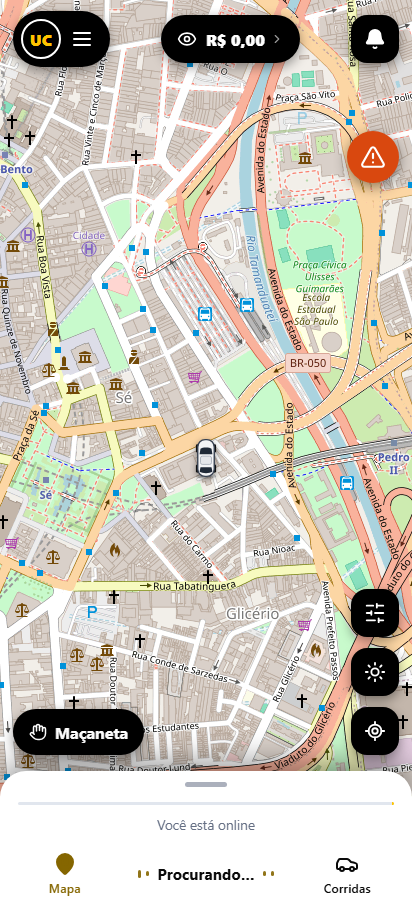
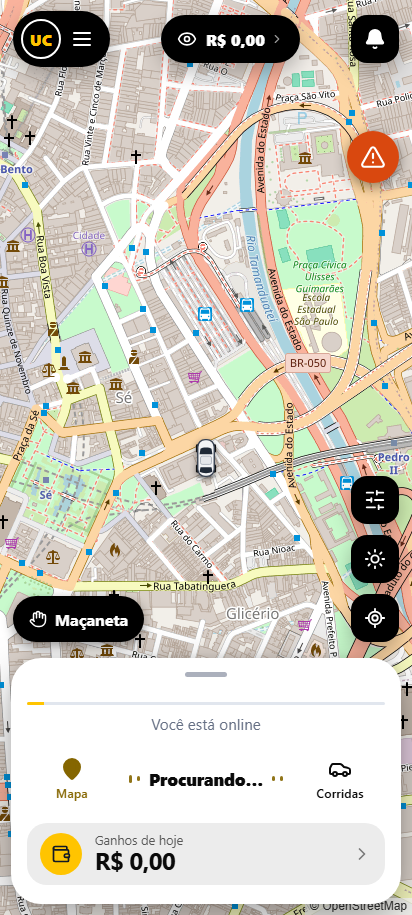
Design v2 da tela inicial (passageiro e motorista) e zona X para fechar a bolha flutuante

Changed region(s): [[0.0, 0.5202, 1.0, 1.0]]

diff --git a/painel/src/apps/web/passageiro/passageiro-m.css b/painel/src/apps/web/passageiro/passageiro-m.css
@@ -327,3 +327,28 @@ html[data-tema="escuro"] .conta-icone.azul, html[data-tema="escuro"] .conta-icon
 .topo-marca.arredondado .topo-titulo { text-align: center; align-items: center; }
 /* subtelas sem cabeçalho (Desafios): título forte */
 .cartao { box-shadow: 0 1px 2px rgba(16,24,40,.05); }
+
+/* ================= Design v2 da tela inicial do passageiro: mapa cheio + cartões flutuantes ================= */
+.inicio .inicio-topo, .inicio.estilo-neutro .inicio-topo, .inicio.estilo-marcante .inicio-topo { position: absolute; z-index: 20; top: 0; left: 0; right: 0; padding: calc(.7rem + env(safe-area-inset-top)) .8rem 0; background: none; flex-direction: row; align-items: center; gap: .55rem; pointer-events: none; color: #111; }
+.inicio .inicio-topo > * { pointer-events: auto; }
+.inicio .inicio-marca { padding: .3rem .8rem .3rem .4rem; background: #fff; border-radius: 999px; box-shadow: 0 6px 20px rgba(0,0,0,.16); min-height: 44px; margin: 0; }
+.inicio .inicio-marca img { height: 30px; }
+.inicio .inicio-ola { flex: 1; min-width: 0; display: flex; align-items: center; gap: .6rem; padding: .3rem .9rem .3rem .3rem; background: #fff; border-radius: 999px; box-shadow: 0 6px 20px rgba(0,0,0,.16); color: #111; min-height: 44px; }
+.inicio .inicio-ola small { font-size: .72rem; opacity: .65; line-height: 1; } .inicio .inicio-ola strong { font-size: 1.02rem; line-height: 1.15; overflow: hidden; text-overflow: ellipsis; white-space: nowrap; }
+.inicio .icone-botao.presente { width: 44px; height: 44px; border-radius: 50%; background: #fff; color: var(--cor-forte, #111); box-shadow: 0 6px 20px rgba(0,0,0,.16); display: grid; place-items: center; border: 0; }
+.inicio .inicio-fundo { position: absolute; z-index: 20; left: .75rem; right: .75rem; bottom: calc(92px + env(safe-area-inset-bottom)); max-width: 540px; margin: 0 auto; background: var(--cartao, #fff); border-radius: 30px; padding: 1.05rem; box-shadow: 0 -4px 14px rgba(0,0,0,.06), 0 16px 44px rgba(0,0,0,.22); display: flex; flex-direction: column; gap: .85rem; animation: subir-cartao .45s cubic-bezier(.2,.8,.2,1) both; }
+@keyframes subir-cartao { from { transform: translateY(24px); opacity: 0; } to { transform: none; opacity: 1; } }
+.inicio .busca-inicio { padding: .55rem .6rem .55rem .65rem; min-height: 64px; border-radius: 22px; background: #f1f2f4; box-shadow: none; gap: .8rem; }
+.inicio .busca-texto strong { font-size: 1.22rem; letter-spacing: -.01em; } .inicio .busca-texto small { font-size: .86rem; }
+.inicio .busca-inicio .icone-redondo.cor { width: 46px; height: 46px; }
+.inicio .botao-ir { width: 46px; height: 46px; padding: 0; border-radius: 50%; display: grid; place-items: center; font-size: .85rem; }
+.inicio .atalhos { display: flex; gap: .5rem; overflow-x: auto; scrollbar-width: none; } .inicio .atalhos::-webkit-scrollbar { display: none; }
+.inicio .atalhos button { flex: 1 0 auto; flex-direction: row; gap: .5rem; padding: .5rem .85rem .5rem .5rem; border-radius: 999px; background: #f1f2f4; box-shadow: none; text-align: left; transition: transform .12s ease; }
+.inicio .atalhos button:active { transform: scale(.96); }
+.inicio .atalho-texto { display: flex; flex-direction: column; line-height: 1.15; } .inicio .atalho-texto strong { font-size: .95rem; } .inicio .atalhos small { font-size: .72rem; }
+.inicio .atalhos .icone-redondo { width: 34px; height: 34px; background: #fff; }
+.inicio .inicio-blocos { display: flex; flex-direction: column; gap: .5rem; }
+.inicio .mapa-controles { top: auto; bottom: calc(92px + 215px + env(safe-area-inset-bottom)); }
+.menu-baixo { border-radius: 28px; padding: .5rem .5rem; box-shadow: 0 10px 34px rgba(0,0,0,.2); }
+.menu-baixo .mb-icone { height: 40px; border-radius: 16px; }
+.inicio .inicio-fundo > .atalhos { order: 5; } .inicio .inicio-fundo > .inicio-blocos { order: 6; }

diff --git a/painel/src/apps/web/motorista/motorista-m.css b/painel/src/apps/web/motorista/motorista-m.css
@@ -652,3 +652,22 @@ html[data-tema="escuro"] .chat-m-entrada input { background: #2b2b2b; color: #f4
 .deslizar-fixo { left: 0; right: 0; bottom: 0; padding: .75rem .9rem calc(.75rem + max(env(safe-area-inset-bottom), 10px)); background: #0d0d0d; box-shadow: 0 -1px 0 #1c1c1c; }
 .folha-corrida { bottom: calc(5rem + max(env(safe-area-inset-bottom), 10px)); padding-bottom: .8rem; max-height: 62vh; border-radius: 26px 26px 0 0; }
 .folha-corrida.n2 { max-height: 66vh; } .folha-corrida.n1 { max-height: 36vh; } .folha-corrida.n0 { max-height: none; }
+
+/* ================= Design v2 da tela inicial do motorista: cartão flutuante, ganhos do dia, botão grande ================= */
+.inicio-m .folha-inicio { margin: 0 .7rem calc(.7rem + env(safe-area-inset-bottom)); border-radius: 30px; padding: .7rem 1rem 1rem; box-shadow: 0 -2px 10px rgba(0,0,0,.08), 0 16px 44px rgba(0,0,0,.35); animation: subir-folha .45s cubic-bezier(.2,.8,.2,1) both; }
+@keyframes subir-folha { from { transform: translateY(26px); opacity: 0; } to { transform: none; opacity: 1; } }
+.inicio-m .folha-inicio .dica-inicio { font-size: .95rem; margin-bottom: .7rem; }
+.inicio-m .barra-baixo { margin-bottom: .2rem; }
+.inicio-m .barra-baixo .estado { font-size: 1.05rem; font-weight: 800; }
+.cartao-ganhos { display: flex; align-items: center; gap: .8rem; width: 100%; margin: .5rem 0 .2rem; padding: .75rem .9rem; border: 0; border-radius: 20px; background: color-mix(in srgb, var(--m-tx) 8%, transparent); color: var(--m-tx); cursor: pointer; text-align: left; transition: transform .12s ease; }
+.cartao-ganhos:active { transform: scale(.98); }
+.cartao-ganhos .cg-icone { display: grid; place-items: center; width: 42px; height: 42px; border-radius: 50%; background: var(--cor, #ffc400); color: var(--cor-texto, #000); }
+.cartao-ganhos .cg-texto { flex: 1; display: flex; flex-direction: column; line-height: 1.15; } .cartao-ganhos small { opacity: .65; font-size: .8rem; } .cartao-ganhos strong { font-size: 1.5rem; letter-spacing: -.02em; }
+.cartao-ganhos .cg-seta { opacity: .5; }
+.inicio-m .anuncios-inicio .faixa-banners img { border-radius: 20px; max-height: 130px; box-shadow: 0 6px 18px rgba(0,0,0,.18); }
+.inicio-m .botao-onoff { width: 124px; height: 124px; font-size: 1.15rem; letter-spacing: .06em; box-shadow: 0 10px 30px rgba(0,0,0,.35), 0 0 0 10px color-mix(in srgb, var(--cor, #ffc400) 30%, transparent); animation: pulsar-online 2.2s ease-in-out infinite; }
+@keyframes pulsar-online { 0%,100% { transform: scale(1); } 50% { transform: scale(1.05); } }
+.inicio-m .mapa-botao, .inicio-m .pilula-menu, .inicio-m .pilula-ganhos { box-shadow: 0 8px 22px rgba(0,0,0,.28); }
+.inicio-m .folha-inicio .cartao-ganhos { flex-direction: row; justify-content: flex-start; align-items: center; text-align: left; padding: .6rem .8rem; }
+.inicio-m .folha-inicio .cartao-ganhos .cg-texto { align-items: flex-start; }
+.inicio-m .anuncios-inicio .faixa-banners img { max-height: 96px; }

diff --git a/painel/src/apps/web/passageiro/Inicio.tsx b/painel/src/apps/web/passageiro/Inicio.tsx
@@ -56,17 +56,20 @@ export function Inicio({ eu, aqui, lugares, irPara, atalho, indique }: {
           </div>
         )}
         <div className="inicio-ola">
-          <Avatar foto={eu.foto} nome={eu.nome} tamanho={52} />
-          <div><small>{saudacao()}</small><strong>{primeiro}! <span aria-hidden="true">👋</span></strong></div>
-          <button className="icone-botao presente" onClick={indique} aria-label="Indique e ganhe"><Gift size={24} /></button>
+          <Avatar foto={eu.foto} nome={eu.nome} tamanho={40} />
+          <div><small>{saudacao()}</small><strong>{primeiro}</strong></div>
         </div>
-        <div className="inicio-blocos">{blocoDestino}{blocoCupons}{blocoDesafio}</div>
-        <div className="atalhos">
-          <button onClick={() => atalho("casa")}><span className="icone-redondo claro"><House size={18} /></span><strong>Casa</strong><small>{lugares?.casa ? "Ir para casa" : "Definir"}</small></button>
-          <button onClick={() => atalho("trabalho")}><span className="icone-redondo claro"><Briefcase size={18} /></span><strong>Trabalho</strong><small>{lugares?.trabalho ? "Ir trabalhar" : "Definir"}</small></button>
-          <button onClick={() => atalho("recentes")}><span className="icone-redondo claro"><History size={18} /></span><strong>Recentes</strong><small>Ver últimos</small></button>
-        </div>
+        <button className="icone-botao presente" onClick={indique} aria-label="Indique e ganhe"><Gift size={22} /></button>
       </div>
+      <section className="inicio-fundo">
+        {blocoDestino}
+        <div className="atalhos">
+          <button onClick={() => atalho("casa")}><span className="icone-redondo claro"><House size={18} /></span><span className="atalho-texto"><strong>Casa</strong><small>{lugares?.casa ? "Ir para casa" : "Definir"}</small></span></button>
+          <button onClick={() => atalho("trabalho")}><span className="icone-redondo claro"><Briefcase size={18} /></span><span className="atalho-texto"><strong>Trabalho</strong><small>{lugares?.trabalho ? "Ir trabalhar" : "Definir"}</small></span></button>
+          <button onClick={() => atalho("recentes")}><span className="icone-redondo claro"><History size={18} /></span><span className="atalho-texto"><strong>Recentes</strong><small>Ver últimos</small></span></button>
+        </div>
+        {(blocoCupons || blocoDesafio) && <div className="inicio-blocos">{blocoCupons}{blocoDesafio}</div>}
+      </section>
     </div>
   );
 }

diff --git a/painel/src/apps/web/motorista/App.tsx b/painel/src/apps/web/motorista/App.tsx
@@ -4,7 +4,7 @@
 // cadastro, carteira, documentos, preferências, suporte, diagnóstico e configurações.
 
 import { useCallback, useEffect, useRef, useState, type ReactNode } from "react";
-import { Bell, ChevronRight, Eye, EyeOff, Hand, Hourglass, LocateFixed, Menu as IconeMenu, Moon, Sun, Phone, Power, ShieldAlert, SlidersHorizontal, TriangleAlert } from "lucide-react";
+import { Bell, ChevronRight, Eye, EyeOff, Hand, Hourglass, LocateFixed, Menu as IconeMenu, Moon, Sun, Phone, Power, Wallet, ShieldAlert, SlidersHorizontal, TriangleAlert } from "lucide-react";
 import { api, ErroApi, flutuante, manterTelaLigada, permissoesNativas, pararSons, rastrearEmSegundoPlano, ligarPush, observarPosicao, posicaoAgora, reais, tempoReal, tocarAlerta, token, vibrar, type Posicao } from "../comum/api";
 import { aoChegarSos, aoFimDoSos, aoMudarSos, CartaoMeuSos, EmergenciaPerto, enviarSos, type SosPerto } from "../comum/sos";
 import { aquecerFrasesFixas } from "../comum/voz";
@@ -230,6 +230,11 @@ function Logado({ marca, sair }: { marca: MarcaApp; sair: () => void }) {
   const analise = eu.aprovado === false;
   const barra = (ativa: "mapa" | "corridas") => (
     <BarraBaixo ativa={ativa} online={online} procurando={conectado} aoMapa={() => setTela("")} aoCorridas={() => setTela("corridas")} aberta={online && folhaAberta} alternar={online ? () => setFolhaAberta((v) => !v) : undefined}>
+      {rec("saldo") && <button type="button" className="cartao-ganhos" onClick={() => setTela("atividades")}>
+        <span className="cg-icone"><Wallet size={20} /></span>
+        <span className="cg-texto"><small>Ganhos de hoje</small><strong>{ajustes.esconderGanhos ? "R$ ••••" : hoje == null ? "…" : reais(hoje)}</strong></span>
+        <ChevronRight size={20} className="cg-seta" />
+      </button>}
       {(!online || folhaAberta) && <div className="anuncios-inicio"><Banners tipo="app" /></div>}
       {online && folhaAberta && (
         <>

diff --git a/scripts/nativo/FlutuanteService.java b/scripts/nativo/FlutuanteService.java
@@ -73,6 +73,7 @@ public class FlutuanteService extends Service {
         p.x = dp(12);
         p.y = dp(160);
 
+        final int alvoTam = dp(64);
         img.setOnTouchListener(new View.OnTouchListener() {
             private int x0, y0;
             private float tx0, ty0;
@@ -85,13 +86,20 @@ public class FlutuanteService extends Service {
                         x0 = p.x; y0 = p.y; tx0 = e.getRawX(); ty0 = e.getRawY(); moveu = false;
                         return true;
                     case MotionEvent.ACTION_MOVE:
-                        if (Math.abs(e.getRawX() - tx0) > dp(6) || Math.abs(e.getRawY() - ty0) > dp(6)) moveu = true;
+                        if (!moveu && (Math.abs(e.getRawX() - tx0) > dp(6) || Math.abs(e.getRawY() - ty0) > dp(6))) { moveu = true; mostrarAlvo(alvoTam); }
+                        if (!moveu) return true;
                         p.x = x0 + Math.round(e.getRawX() - tx0);
                         p.y = y0 + Math.round(e.getRawY() - ty0);
                         janela.updateViewLayout(v, p);
+                        alvoAceso(sobreAlvo(p, alvoTam));
                         return true;
                     case MotionEvent.ACTION_UP:
-                        if (!moveu) abrirApp();
+                    case MotionEvent.ACTION_CANCEL:
+                        boolean fechar = moveu && sobreAlvo(p, alvoTam);
+                        esconderAlvo();
+                        if (fechar) { stopSelf(); return true; } // soltou no X: a bolha é removida
+                        if (!moveu) { abrirApp(); return true; }
+                        encostarNaBorda(v, p); // soltou fora: volta para a borda mais perto
                         return true;
                     default:
                         return false;
@@ -105,6 +113,69 @@ public class FlutuanteService extends Service {
             bolinha = null;
             stopSelf();
         }
+    }
+
+    // ------------------------------------------------------------------ zona "X" (aparece ao arrastar a bolha)
+    private View alvo;
+    private WindowManager.LayoutParams alvoP;
+    private boolean alvoLigado;
+
+    private int tipoJanela() {
+        return Build.VERSION.SDK_INT >= Build.VERSION_CODES.O ? WindowManager.LayoutParams.TYPE_APPLICATION_OVERLAY : WindowManager.LayoutParams.TYPE_PHONE;
+    }
+
+    /** Círculo escuro com um X desenhado (sem emoji), no meio da parte de baixo da tela. */
+    private void mostrarAlvo(final int tam) {
+        if (alvo != null) return;
+        alvo = new View(this) {
+            @Override
+            protected void onDraw(android.graphics.Canvas c) {
+                android.graphics.Paint f = new android.graphics.Paint(android.graphics.Paint.ANTI_ALIAS_FLAG);
+                f.setColor(alvoLigado ? 0xFFE53935 : 0xCC111111);
+                float r = getWidth() / 2f;
+                c.drawCircle(r, r, alvoLigado ? r : r * 0.86f, f);
+                android.graphics.Paint l = new android.graphics.Paint(android.graphics.Paint.ANTI_ALIAS_FLAG);
+                l.setColor(0xFFFFFFFF); l.setStrokeWidth(dp(3)); l.setStrokeCap(android.graphics.Paint.Cap.ROUND);
+                float d = getWidth() * 0.17f;
+                c.drawLine(r - d, r - d, r + d, r + d, l);
+                c.drawLine(r + d, r - d, r - d, r + d, l);
+            }
+        };
+        alvoP = new WindowManager.LayoutParams(tam, tam, tipoJanela(),
+                WindowManager.LayoutParams.FLAG_NOT_FOCUSABLE | WindowManager.LayoutParams.FLAG_NOT_TOUCHABLE | WindowManager.LayoutParams.FLAG_LAYOUT_NO_LIMITS, PixelFormat.TRANSLUCENT);
+        alvoP.gravity = Gravity.BOTTOM | Gravity.CENTER_HORIZONTAL;
+        alvoP.y = dp(48);
+        try { janela.addView(alvo, alvoP); } catch (Exception e) { alvo = null; }
+    }
+
+    private boolean sobreAlvo(WindowManager.LayoutParams p, int tam) {
+        if (alvoP == null) return false;
+        android.util.DisplayMetrics m = getResources().getDisplayMetrics();
+        float cx = p.x + dp(TAMANHO) / 2f, cy = p.y + dp(TAMANHO) / 2f;
+        float ax = m.widthPixels / 2f, ay = m.heightPixels - alvoP.y - tam / 2f;
+        double dist = Math.hypot(cx - ax, cy - ay);
+        return dist < tam * 0.9;
+    }
+
+    private void alvoAceso(boolean ligado) {
+        if (alvo == null || ligado == alvoLigado) return;
+        alvoLigado = ligado;
+        alvo.animate().scaleX(ligado ? 1.25f : 1f).scaleY(ligado ? 1.25f : 1f).setDuration(120).start();
+        alvo.invalidate();
+    }
+
+    private void esconderAlvo() {
+        if (alvo != null) { try { janela.removeView(alvo); } catch (Exception e) { /* já saiu */ } }
+        alvo = null; alvoP = null; alvoLigado = false;
+    }
+
+    /** Solta a bolha fora do X: ela volta para a borda esquerda ou direita mais próxima. */
+    private void encostarNaBorda(View v, WindowManager.LayoutParams p) {
+        android.util.DisplayMetrics m = getResources().getDisplayMetrics();
+        int margem = dp(8);
+        p.x = (p.x + dp(TAMANHO) / 2 < m.widthPixels / 2) ? margem : m.widthPixels - dp(TAMANHO) - margem;
+        p.y = Math.max(dp(40), Math.min(p.y, m.heightPixels - dp(TAMANHO) - dp(140)));
+        try { janela.updateViewLayout(v, p); } catch (Exception e) { /* já saiu */ }
     }
 
     private android.graphics.Bitmap recortarIcone(Drawable icone) {
@@ -134,6 +205,7 @@ public class FlutuanteService extends Service {
             try { janela.removeView(bolinha); } catch (Exception e) { /* já saiu */ }
         }
         bolinha = null;
+        esconderAlvo();
         super.onDestroy();
     }
 }
